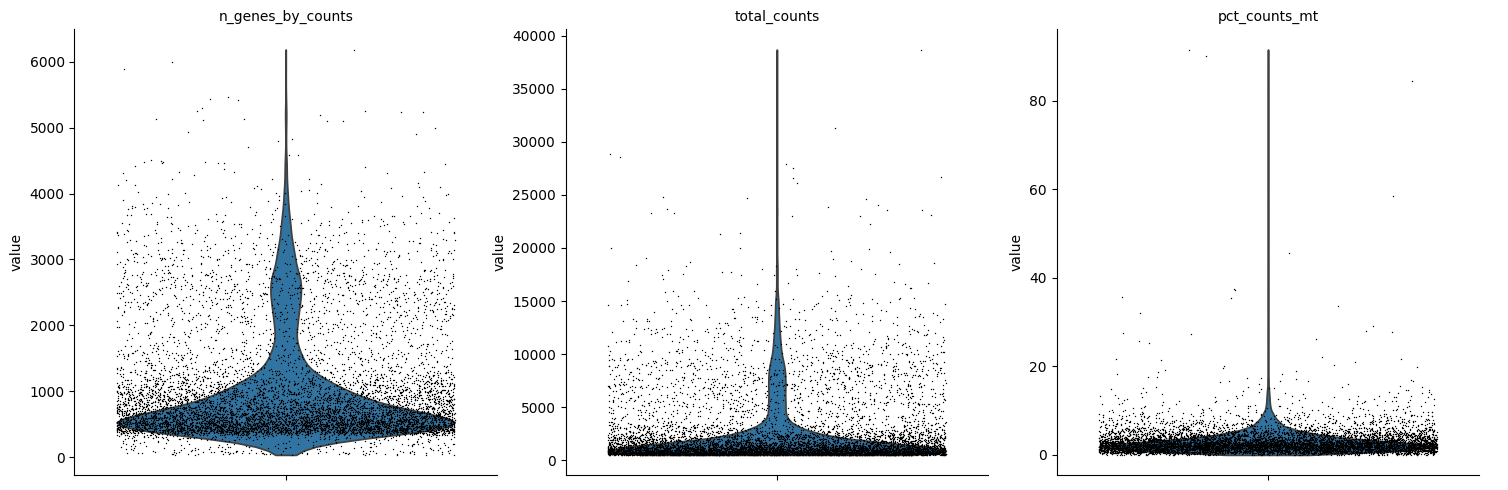
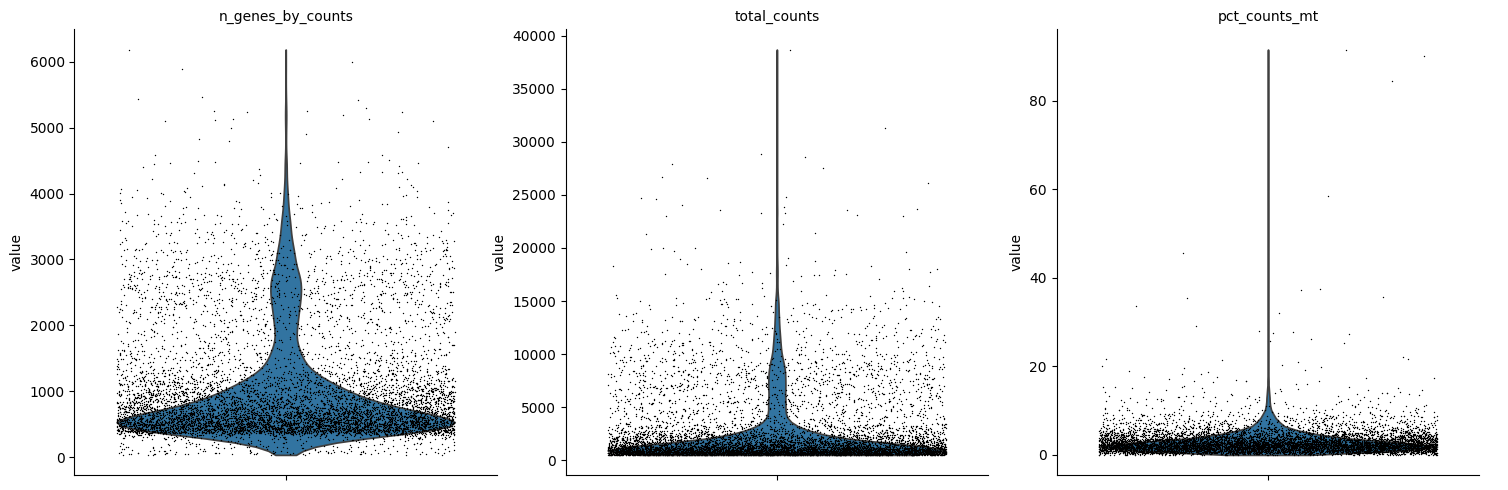
Update progress

Changed region(s): [[0.0623, 0.4286, 0.3117, 0.949], [0.4052, 0.6122, 0.6545, 0.949], [0.7168, 0.7959, 0.9662, 0.949]]

diff --git a/docs/progress.md b/docs/progress.md
@@ -1,7 +1,7 @@
 # Project Progress
 
 **Project:** A Mechanism-Informed Gene Signature for Regenerative vs. Fibrotic Tendon Healing  
-**Last updated:** 2026-06-01
+**Last updated:** 2026-06-05
 
 ---
 
@@ -14,7 +14,7 @@
 | 1a | Download & QC Cherief 2023 scRNA-seq (GSE244921) | Done ✓ |
 | 1b | Clustering & cell-type annotation (Cherief 2023) | Done ✓ |
 | 1c | Sub-cluster cluster 8 → TSPC / T-FAP separation | Done ✓ |
-| 2 | Obtain Harvey 2019 count matrix (Cell Ranger on FASTQs) | **Blocked** |
+| 2 | Obtain Harvey 2019 count matrix (Cell Ranger on FASTQs) | Done ✓ |
 | 3a | pySCENIC — TF network inference on TSPC / T-FAP | Not started |
 | 3b | Label transfer Harvey 2019 → Cherief 2023 cluster 8 | Not started |
 | 4 | CellRank — fate trajectory from PDGFRα+ progenitor | Not started |
@@ -48,68 +48,58 @@
 - Checked condition (innervated vs. denervated) proportions across sub-clusters → `sub8_condition_proportions.png`
 - Produced: `umap_sub8_annotated.png`, `umap_sub8_chosen.png`, `umap_sub8_condition.png`, `umap_sub8_gene_overlays.png`, `dotplot__sub8_markers.png`, `dotplot__sub8_top_degs.png`, `umap_sub8_sanity.png`
 
-### Harvey 2019 — preliminary exploration
-- Inspected available Harvey 2019 data files via `scripts/inspect_harvey_rda.R`
-- Confirmed count matrix is **not publicly deposited**; raw FASTQs exist under SRA accession PRJNA506218 / SRR9087252
+### Harvey 2019 — download, Cell Ranger & QC (`scripts/ipynb/03_harvey2019_qc_clustering.ipynb`)
+
+- Downloaded SRR9087252 FASTQs (~23.2 GB) from SRA on HPC cluster via `scripts/sh/download_harvey.sh` / `fasterq_harvey.sh`
+- Ran Cell Ranger 10 `count` against mm10 reference on HPC (64 GB RAM, 16 cores, ~12 h) via `scripts/sh/cellranger_harvey.sh`; Cell Ranger estimated **8,484 cells**
+- QC-filtered to biologically relevant population: min 700 genes, <15% MT reads, <5,000 genes → reduced to ~2,491 cells, matching Harvey 2019 paper
+- Normalized (scran 10k), log-transformed, selected 2,000 HVGs, PCA → UMAP → Leiden clustering (resolution = 0.5)
+- Plotted key fate markers: Tppp3, Pi16, Sfrp2, Pdgfra, Tnmd, Scx; produced dotplot and per-cluster mean expression table to guide TSPC/T-FAP annotation
+- Saved processed object: `data/Harvey_scRNA-seq/harvey2019_processed.h5ad`
+- **Pending:** fill in `cluster_annotation` dict in notebook section 8 after inspecting marker dotplot outputs
 
 ### Other outputs
 - Pipeline flowchart (`figures/pipeline_flowchart.png`) drawn via `scripts/draw_pipeline.py`
 
 ---
 
-## Currently Blocked
-
-### Stage 2 — Harvey 2019 Cell Ranger
-**Blocker:** Cell Ranger requires Linux/WSL2, ~32–64 GB RAM, ~100 GB storage, ~4–8 hours compute. Cannot be run on Windows natively.
-
-**What's needed to unblock:**
-- Access to a Linux machine or WSL2 environment
-- Download SRR9087252 FASTQs (~23.2 GB) via `fastq-dump` or `fasterq-dump`
-- Run Cell Ranger `count` with mm10 reference genome
-- Alternative: contact Harvey lab directly to request the count matrix
-
-**Why it matters:** Harvey 2019 provides the only explicitly validated TSPC/T-FAP cluster labels — needed for pySCENIC TF inference (Stage 3a) and classifier training (Stage 8). Without it, both arms rely solely on the sub-clustered Cherief 2023 cluster 8.
-
----
-
 ## Next Steps (in order)
 
-### Immediate — while Harvey 2019 is blocked
+1. **Finish Harvey 2019 cluster annotation** (notebook section 8)
+   - Inspect marker dotplot and `cluster_means` output
+   - Fill in `cluster_annotation` dict to label TSPC, T-FAP, tenocyte, etc.
+   - Re-run notebook to save annotated `cell_type` column to `harvey2019_processed.h5ad`
 
-1. **Stage 3a — pySCENIC on Cherief 2023 sub-clusters**
+2. **Stage 3a — pySCENIC on Cherief 2023 sub-clusters**
    - Run pySCENIC on the TSPC and T-FAP sub-clusters already identified in cluster 8
    - Requires ≥300–500 cells per population — verify counts first
    - Output: ranked TF regulons specific to each fate
 
-2. **Stage 4 — CellRank fate trajectory**
+3. **Stage 3b — Label transfer Harvey 2019 → Cherief 2023 cluster 8**
+   - Transfer Harvey 2019 TSPC/T-FAP labels onto Cherief 2023 cluster 8 sub-clusters using Seurat/scVI
+   - Use as secondary confirmation of sub-cluster identities
+
+4. **Stage 4 — CellRank fate trajectory**
    - Model pseudotime from PDGFRα+ progenitor → TSPC vs. T-FAP terminal states
    - Identify driver genes along each fate branch
    - Cross-reference with pySCENIC regulons to find TFs active at the fate branch point
 
-3. **Stage 5 — LIANA cell-cell communication**
+5. **Stage 5 — LIANA cell-cell communication**
    - Compare ligand-receptor interactions in innervated vs. denervated conditions
    - Focus on NGF, TGFβ, PDGF signaling axes
 
-### Once Harvey 2019 is unblocked
-
-4. **Stage 3b — Label transfer**
-   - Transfer Harvey 2019 TSPC/T-FAP labels onto Cherief 2023 cluster 8 sub-clusters using Seurat/scVI
-   - Use as secondary confirmation of sub-cluster identities
-
-5. **Stage 6 — Mechanistic synthesis**
+6. **Stage 6 — Mechanistic synthesis**
    - Integrate pySCENIC regulons + CellRank branch drivers + LIANA signals
    - Write up regulatory circuit: what TFs govern each fate, what upstream signals activate them, how denervation disrupts balance
 
-### Final stages (depends on Stages 3–5)
-
-6. **Stage 7 — Feature selection**
+7. **Stage 7 — Feature selection**
    - Use pySCENIC gene sets + CellRank driver genes as candidate feature space
    - Apply LASSO, Boruta, XGBoost; take intersection of ≥2 methods
 
-7. **Stage 8 — Classifier training & validation**
+8. **Stage 8 — Classifier training & validation**
    - Train on Harvey 2019 TSPC/T-FAP; validate on Cherief 2023 innervated vs. denervated
 
-8. **Stage 9 — Healing index score**
+9. **Stage 9 — Healing index score**
    - Convert classifier to continuous score; apply to new tendon scRNA-seq datasets
 
 ---
@@ -119,11 +109,16 @@
 | File | Purpose |
 |---|---|
 | `data/Cherief_scRNA-seq/GSE244921_processed.h5ad` | Processed Cherief 2023 AnnData object |
-| `scripts/ipynb/01_explore_GSE244921.ipynb` | Initial QC, clustering, annotation |
-| `scripts/ipynb/02_subcluster_cluster8.ipynb` | Cluster 8 sub-clustering → TSPC/T-FAP |
-| `scripts/r/inspect_harvey_rda.R` | Harvey 2019 data inspection |
+| `data/Harvey_scRNA-seq/harvey2019_processed.h5ad` | Processed Harvey 2019 AnnData object |
+| `scripts/ipynb/01_cherief2023_qc_clustering.ipynb` | Cherief 2023 — QC, clustering, annotation |
+| `scripts/ipynb/02_cherief2023_subcluster_tspc_tfap.ipynb` | Cluster 8 sub-clustering → TSPC/T-FAP |
+| `scripts/ipynb/03_harvey2019_qc_clustering.ipynb` | Harvey 2019 — QC, clustering, marker annotation |
+| `scripts/sh/download_harvey.sh` | SRA prefetch of SRR9087252 FASTQs (HPC) |
+| `scripts/sh/fasterq_harvey.sh` | fasterq-dump + gzip of Harvey FASTQs (HPC) |
+| `scripts/sh/cellranger_harvey.sh` | Cell Ranger count job on HPC (mm10, 16 cores) |
 | `scripts/py/draw_pipeline.py` | Pipeline flowchart generation |
 | `scripts/js/create_proposal_docx.js` | Proposal Word document generation |
 | `figures/Cherief_scRNA-seq/` | All Cherief 2023 analysis figures |
+| `figures/Harvey_scRNA-seq/` | Harvey 2019 QC and clustering figures |
 | `figures/pipeline_flowchart.png` | Full analysis pipeline diagram |
 | `docs/research-plan.md` | Detailed scientific rationale and pipeline |
